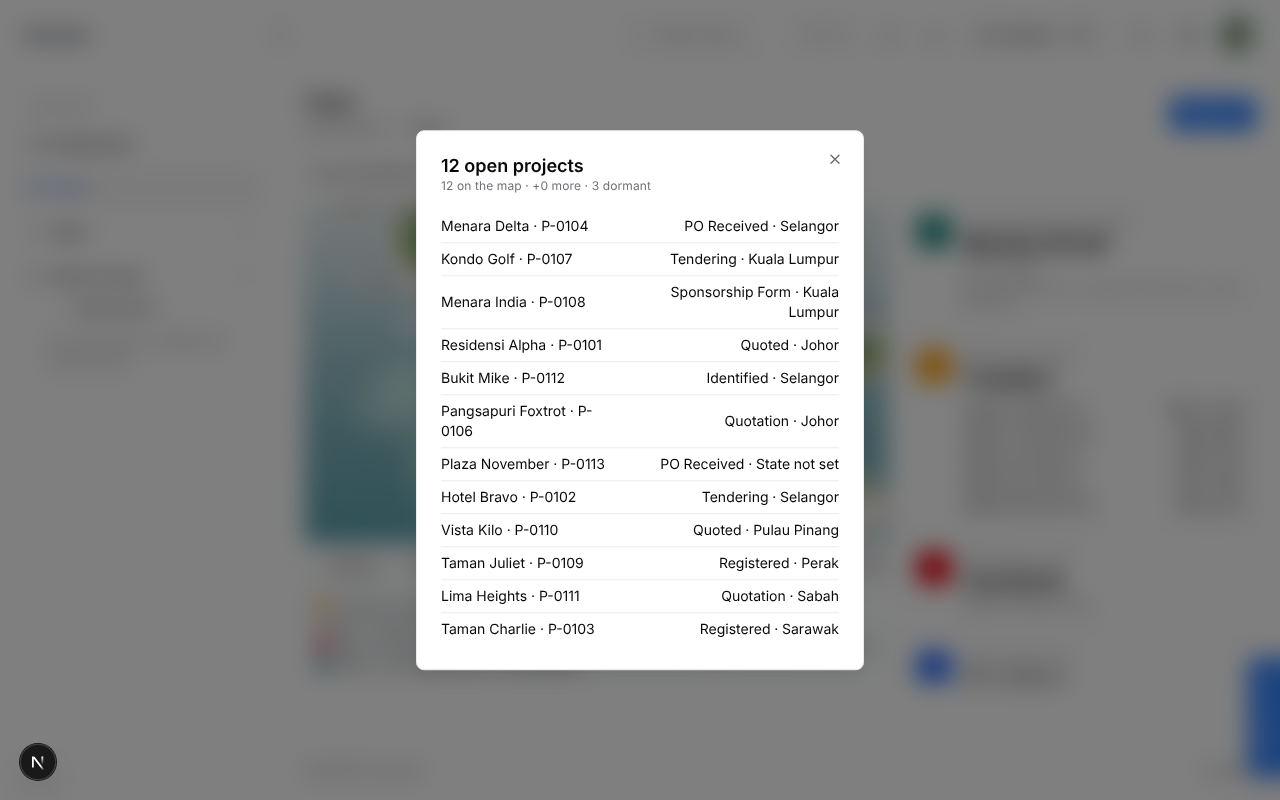
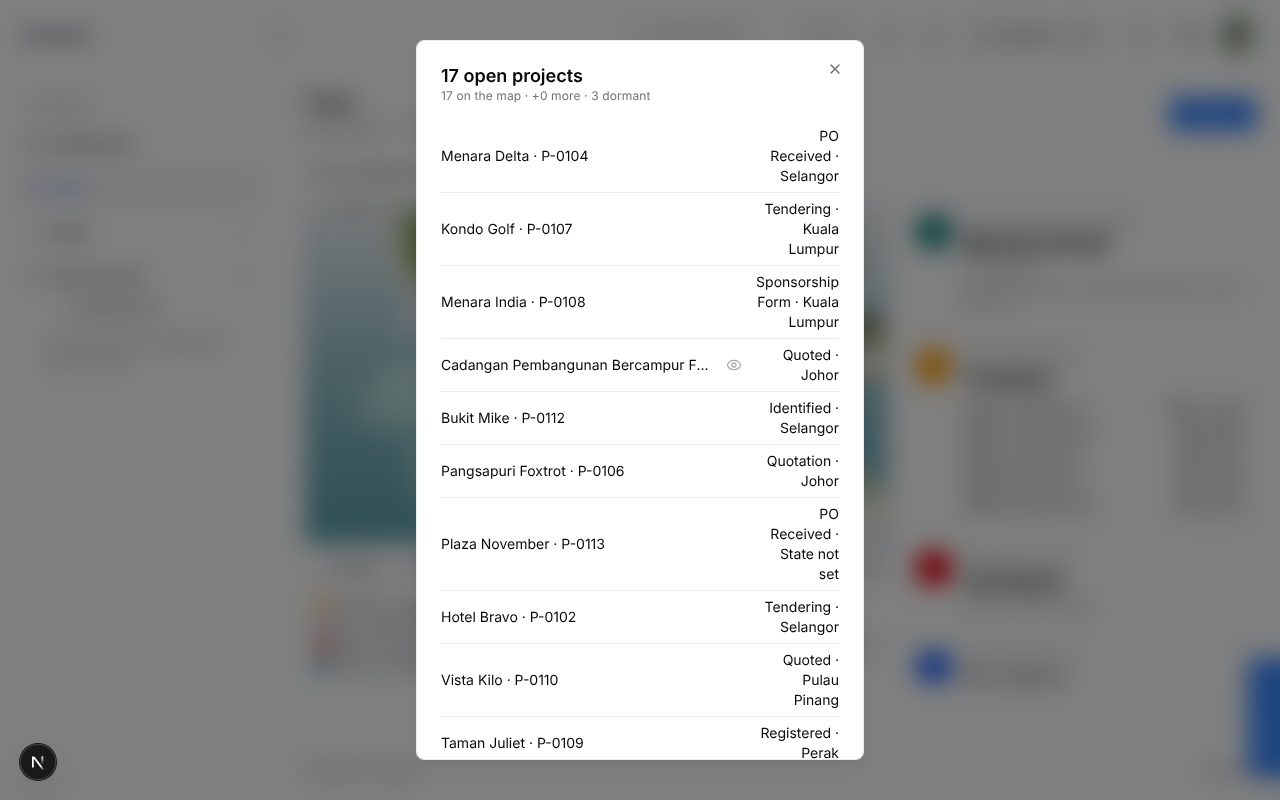
TOWN-PROJECT-CITY: crew pass 2 fixes (title clamp, islet pill, list keys, order lookup index, script)
- Long project titles clamp everywhere with the shared TruncatedTextCell:
  2 lines as a popup title, 1 line in a list row, the full text on hover
  or the eye (owner rule, 28 Oct).
- Close up, a state pill floats just off its island's south shore, on the
  water, so it never covers a site (the State not set islet lined its
  shore with sites); that islet is a little larger.
- The bought-today list keys rows by shop (anonymous rows all read Dealer).
- Index orders (customer_id, order_date DESC NULLS LAST, created_at DESC)
  for the Town's last-20-orders state lookup (the cold first build hit the
  5 s statement timeout); migration town_0003_orders_cust_date, model too.
- Hand-test Setup: the command crew runs to serve the latest full day as
  today (Redis only, DB read only).

Claude-Session: https://claude.ai/code/session_0123Dx7NWsLdG2vfFbvELCuk

Changed region(s): [[0.3125, 0.0312, 0.6875, 0.9688], [0.3438, 0.2812, 0.4688, 0.3438]]

diff --git a/sorento_crm_frontend/app/(protected)/town/components/TownLightbox.tsx b/sorento_crm_frontend/app/(protected)/town/components/TownLightbox.tsx
@@ -2,6 +2,7 @@
 
 import type { ReactNode } from 'react';
 import Link from 'next/link';
+import { TruncatedTextCell } from '@/components/common/TruncatedTextCell';
 import { Badge } from '@/components/ui/badge';
 import { Button } from '@/components/ui/button';
 import { Dialog, DialogBody, DialogContent, DialogDescription, DialogHeader, DialogTitle } from '@/components/ui/dialog';
@@ -41,7 +42,10 @@ function Rows({ rows }: { rows: ([string, ReactNode] | [string, ReactNode, strin
         <tbody>
           {rows.map(([label, value, id]) => (
             <tr key={id ?? label} className="border-b border-border last:border-0">
-              <td className="py-1.5 pe-2">{label}</td>
+              {/* a long name (a project title can run to hundreds of characters) clamps to one line, full text on hover or the eye */}
+              <td className="w-full max-w-0 py-1.5 pe-2">
+                <TruncatedTextCell text={label} dialogTitle="Full name" />
+              </td>
               <td className="py-1.5 text-end tabular-nums">{value}</td>
             </tr>
           ))}
@@ -161,7 +165,7 @@ function body(snapshot: TownSnapshot, target: TownTarget): { title: string; meta
         content: (
           <Rows
             rows={[
-              ...bought.map((shop): [string, ReactNode] => [shopLabel(shop), shopToday(shop)]),
+              ...bought.map((shop): [string, ReactNode, string] => [shopLabel(shop), shopToday(shop), shop.key]),
               ...(others ? ([[`+ ${others} more dealers`, '']] as [string, ReactNode][]) : []),
             ]}
           />
@@ -324,7 +328,9 @@ export function TownLightbox({
     <Dialog open={shown !== null} onOpenChange={(open) => !open && onClose()}>
       <DialogContent className={wide ? 'sm:max-w-2xl' : 'sm:max-w-md'}>
         <DialogHeader className="mb-2 space-y-0 pe-8 text-start">
-          <DialogTitle>{shown?.title}</DialogTitle>
+          <DialogTitle>
+            <TruncatedTextCell text={shown?.title} lines={2} dialogTitle="Full name" />
+          </DialogTitle>
           <DialogDescription className={shown?.meta ? 'text-xs' : 'sr-only'}>
             {shown?.meta || shown?.title}
           </DialogDescription>

diff --git a/sorento_crm_frontend/app/(protected)/town/components/TownProjectCity.test.tsx b/sorento_crm_frontend/app/(protected)/town/components/TownProjectCity.test.tsx
@@ -107,4 +107,27 @@ describe('TOWN-PROJECT-CITY: split board, sites, trading houses', () => {
     expect(error.mock.calls.flat().join(' ')).not.toMatch(/same key/);
     error.mockRestore();
   });
+
+  it('clamps a long project title: 2 lines as the popup title, 1 line in a list, the full text on hover (owner rule, 28 Oct)', () => {
+    const long = 'Cadangan Pembangunan '.repeat(27).trim();
+    const snap = { ...FULL, projects: { ...FULL.projects, sites: [{ ...SITE, name: long }] } };
+    const { unmount } = render(<TownLightbox snapshot={snap as never} target={{ kind: 'site', key: 'p1' }} onClose={() => undefined} />);
+    const title = screen.getByRole('dialog').querySelector('h2 [title]') as HTMLElement;
+    expect(title.className).toMatch(/line-clamp-2/);
+    expect(title.getAttribute('title')).toBe(`${long} · P-0101`);
+    unmount();
+    render(<TownLightbox snapshot={snap as never} target={{ kind: 'projects' }} onClose={() => undefined} />);
+    const row = screen.getByRole('dialog').querySelector('td [title]') as HTMLElement;
+    expect(row.className).toMatch(/truncate/);
+    expect(row.getAttribute('title')).toBe(`${long} · P-0101`);
+  });
+
+  it('lists the dealers bought today without duplicate React keys when names are hidden', () => {
+    const error = vi.spyOn(console, 'error').mockImplementation(() => undefined);
+    const shops = Array.from({ length: 4 }, (_, i) => ({ key: `opaque-shop-${i}`, kind: 'shop', account_label: null, today_docs: 1 }));
+    const snap = { ...REDACTED, shops, today: { ...REDACTED.today, dealer_customer_count: 4 } };
+    render(<TownLightbox snapshot={snap as never} target={{ kind: 'bought' }} onClose={() => undefined} />);
+    expect(error.mock.calls.flat().join(' ')).not.toMatch(/same key/);
+    error.mockRestore();
+  });
 });

diff --git a/sorento_crm_frontend/app/(protected)/town/components/townWorld.ts b/sorento_crm_frontend/app/(protected)/town/components/townWorld.ts
@@ -1819,13 +1819,13 @@ export function mountWorld(o: WorldOptions): WorldHandle {
       const nSites = sitesBy[d.key]?.length ?? 0;
       const nTowers = towersBy[d.key]?.length ?? 0;
       const bits = [dealers.length ? `${plural(dealers.length, 'dealer')}${lit ? `, ${lit} lit` : ''}` : '', nSites ? plural(nSites, 'site') : '', nTowers ? plural(nTowers, 'trading house', 'trading houses') : ''].filter(Boolean);
-      // the pill stands on the state's near (south) shore, not over its street, so a tap on a site or a shop
-      // is never taken by the pill
+      // close up, the pill floats just off the state's near (south) shore, on the water, so it never covers a
+      // site or a shop (on a small islet the shore itself is lined with sites)
       const [sx, sz] = mapXZ(0, -1);
-      const [cx, cz] = d.key === 'selangor' ? polar(26.5, 330) : edgeToward(d.key, centreOf(d.key)[0] + sx * 99, centreOf(d.key)[1] + sz * 99, -1);
+      const [cx, cz] = d.key === 'selangor' ? polar(26.5, 330) : edgeToward(d.key, centreOf(d.key)[0] + sx * 99, centreOf(d.key)[1] + sz * 99, -5);
       addLabel(
         { text: d.name, dot: lit ? 'lit' : undefined, muted: bits.length ? ` ${bits.join(' · ')}` : undefined },
-        new THREE.Vector3(cx, d.key === 'selangor' ? 3 : 1.2, cz),
+        new THREE.Vector3(cx, d.key === 'selangor' ? 3 : 0, cz),
         false,
         () => (d.key === 'selangor' ? flyTo('selangor') : flyTo(d.key)),
         () => ({ kind: 'state', name: d.name, detail: bits.join(' · ') }),

diff --git a/sorento_crm_frontend/app/(protected)/town/lib/townMap.ts b/sorento_crm_frontend/app/(protected)/town/lib/townMap.ts
@@ -44,7 +44,7 @@ export const STATES: StateDef[] = [
   { key: 'ns', name: 'Negeri Sembilan', e: 36, n: -58, rx: 13, ry: 11, rot: 30, parent: 'putrajaya' },
   { key: 'melaka', name: 'Melaka', e: 18, n: -80, rx: 8, ry: 7, rot: 30, parent: 'ns' },
   { key: 'johor', name: 'Johor', e: 68, n: -88, rx: 26, ry: 17, rot: 10, parent: 'ns' },
-  { key: 'notset', name: 'State not set', e: -42, n: -58, rx: 8, ry: 7, rot: 0 },
+  { key: 'notset', name: 'State not set', e: -44, n: -60, rx: 12, ry: 9, rot: 0 },
   { key: 'sarawak', name: 'Sarawak', e: 205, n: -6, rx: 48, ry: 17, rot: 25 },
   { key: 'labuan', name: 'Labuan', e: 246, n: 56, rx: 4, ry: 4, rot: 0 },
   { key: 'sabah', name: 'Sabah', e: 282, n: 70, rx: 26, ry: 20, rot: 35 },

diff --git a/sorento_crm_backend/alembic/versions/town_0003_orders_cust_date.py b/sorento_crm_backend/alembic/versions/town_0003_orders_cust_date.py
@@ -1,0 +1,67 @@
+"""Index orders (customer_id, order_date DESC NULLS LAST, created_at DESC) (TOWN-PROJECT-CITY).
+
+documentation/plans/dashboard/PLAN-town-project-city-11nov.md. The Town places a dealer by the postcode of
+its last 20 delivery orders, newest first (`snapshot._states`, a LATERAL with LIMIT 20 per customer). With
+only `ix_orders_customer_id` Postgres reads and sorts each customer's whole order history; on a cold prod
+copy the first build hit the 5 s statement timeout there (crew pass, 12 Nov). This index serves the 20 rows
+directly. Same build shape as sodv_0001_ol_from_doc_idx: CONCURRENTLY, bounded lock wait, an INVALID
+leftover dropped and rebuilt.
+
+Revision ID: town_0003_orders_cust_date
+Revises: pc_0001_product_costing
+"""
+from __future__ import annotations
+
+import sqlalchemy as sa
+from alembic import op
+
+# Kept <=32 chars: alembic_version.version_num is varchar(32).
+revision = "town_0003_orders_cust_date"
+down_revision = "pc_0001_product_costing"
+branch_labels = None
+depends_on = None
+
+INDEX = "ix_orders_customer_order_date"
+COLUMNS = "customer_id, order_date DESC NULLS LAST, created_at DESC"
+INDEX_LOCK_TIMEOUT = "30s"
+
+
+def _index_valid(bind):
+    """pg_index.indisvalid for the index (True / False), or None when there is none."""
+    return bind.execute(
+        sa.text(
+            "SELECT i.indisvalid FROM pg_index i JOIN pg_class c ON c.oid = i.indexrelid "
+            "WHERE i.indrelid = 'orders'::regclass AND c.relname = :name"
+        ),
+        {"name": INDEX},
+    ).scalar()
+
+
+def _ensure_index(bind, *, concurrently: bool) -> None:
+    """Build the index unless a VALID one exists; drop an INVALID leftover of a failed CONCURRENTLY
+    build first, which IF NOT EXISTS would otherwise keep forever."""
+    if _index_valid(bind) is True:
+        return
+    c = "CONCURRENTLY" if concurrently else ""
+    if _index_valid(bind) is False:
+        bind.execute(sa.text(f"DROP INDEX {c} IF EXISTS {INDEX}"))
+    bind.execute(sa.text(f"CREATE INDEX {c} IF NOT EXISTS {INDEX} ON orders ({COLUMNS})"))
+    if _index_valid(bind) is not True:
+        raise RuntimeError(f"town_0003: index {INDEX} is INVALID after the build; drop it and rerun.")
+
+
+def upgrade():
+    # CREATE INDEX CONCURRENTLY cannot run inside a transaction.
+    with op.get_context().autocommit_block():
+        bind = op.get_bind()
+        previous = bind.execute(sa.text("SELECT current_setting('lock_timeout')")).scalar()
+        bind.execute(sa.text(f"SET lock_timeout = '{INDEX_LOCK_TIMEOUT}'"))
+        try:
+            _ensure_index(bind, concurrently=True)
+        finally:
+            bind.execute(sa.text("SELECT set_config('lock_timeout', :v, false)"), {"v": previous})
+
+
+def downgrade():
+    with op.get_context().autocommit_block():
+        op.get_bind().execute(sa.text(f"DROP INDEX CONCURRENTLY IF EXISTS {INDEX}"))

diff --git a/sorento_crm_backend/tests/town/test_town_project_city_state.py b/sorento_crm_backend/tests/town/test_town_project_city_state.py
@@ -219,3 +219,15 @@ def test_the_most_frequent_postcode_wins_not_the_most_frequent_state(db):
     c = cust(db)
     _orders(db, c, ["47301", "47301", "50460", "50450"])  # oldest first
     assert _state_of(db, c)[0] == "Selangor"
+
+
+def test_the_order_lookup_has_its_index():
+    """Crew pass (12 Nov): the first build on a cold prod copy hit the 5 s statement timeout in the state
+    lookup, which reads each customer's last 20 delivery orders newest first. The index serves exactly that
+    (customer, newest first), so a dealer's whole order history is never read and sorted."""
+    from app.models.order import Order
+
+    index = {ix.name: ix for ix in Order.__table__.indexes}["ix_orders_customer_order_date"]
+    cols = [str(e) for e in index.expressions]
+    assert cols[0].endswith("customer_id")
+    assert "order_date DESC NULLS LAST" in cols[1] and "created_at DESC" in cols[2]

diff --git a/sorento_crm_backend/app/models/order.py b/sorento_crm_backend/app/models/order.py
@@ -520,6 +520,9 @@ class Order(Base, CompanyScopedMixin):
     __table_args__ = (
         Index("uq_orders_company_order_number", "company_id", "order_number", unique=True),
         Index("ix_orders_customer_id", "customer_id"),
+        # TOWN-PROJECT-CITY: a customer's delivery orders newest first (the Town reads the last 20 per dealer
+        # for its state); migration town_0003_orders_cust_date
+        Index("ix_orders_customer_order_date", "customer_id", text("order_date DESC NULLS LAST"), text("created_at DESC")),
         Index("ix_orders_order_status_id", "order_status_id"),
         Index("ix_orders_order_date", "order_date"),
         Index("ix_orders_order_number", "order_number"),

diff --git a/laneboard/scripts/2342.md b/laneboard/scripts/2342.md
@@ -8,7 +8,36 @@ crew test copy
 - Sign in as an admin (the Town is admin-only).
 - Crew (not the owner) builds today's Town snapshot once on the test copy after 07:00 Malaysia time (the copy runs with the scheduler off; the tick refuses outside 07:00 to 22:05):
   `cd sorento_crm_backend && venv/bin/python -c "from app.services.town.snapshot import run_town_snapshot_tick; print(run_town_snapshot_tick())"`
-- Dev data note: the dev copy's invoices end on 04/11, so "today" shows RM 0, no lit shop and no lit tower, and the dev trading-house links have no linked customer, so no tower stands. The split, lit shops and towers were checked by crew on snapshots built by this PR's code from the 02-04/11 data; on today's copy check that the line reads Dealers RM 0 · Projects RM 0 · Other RM 0 and that the sites and their stages show.
+- Dev data note: the copy's invoices end before today, so today's Town reads RM 0 with nothing lit. So the owner sees real figures, crew then serves each company's latest full day as today (Redis only; the database is only read). Run it from `sorento_crm_backend` with the copy's env:
+  ```
+  venv/bin/python - <<'PY'
+  from datetime import datetime, time, timedelta, timezone
+  import sqlalchemy as sa
+  from app.main import app  # noqa: F401
+  from app.database import SessionLocal
+  from app.models.base import set_company_scope
+  from app.models.company import Company
+  from app.models.finance import BillingDocument
+  from app.services.queue_service import redis_conn
+  from app.services.town import snapshot as town
+  MYT = timezone(timedelta(hours=8))
+  today = datetime.now(MYT).date()
+  with SessionLocal() as db:
+      set_company_scope(db, None)
+      for (cid,) in db.query(Company.id).filter(Company.is_active.is_(True)).all():
+          cid = str(cid)
+          day = db.execute(sa.select(sa.func.max(BillingDocument.doc_date)).where(
+              BillingDocument.company_id == cid, BillingDocument.doc_date < today)).scalar()
+          if day is None:
+              print(cid, 'no invoices before today, skipped'); continue
+          full = town.build_snapshot(db, cid, day, now=datetime.combine(day, time(15), MYT))
+          full['day'] = today.isoformat()
+          town.store(redis_conn, cid, today, full)
+          print(cid, 'serves', day.isoformat(), 'as', today.isoformat())
+      db.rollback()
+  PY
+  ```
+  It prints one line per company, e.g. "<company id> serves 2026-11-11 as 2026-11-12". The next scheduled tick (when the scheduler runs) replaces it with the real today. The dev trading-house links have no linked customer, so no tower stands on the copy.
 - Optional, for a project site with dates: open any open project and set its Launch date and Expected delivery (from) in the sales profile, and its State; for a trading house: link a party in role Trading house that is tied to a customer which has a Project-type invoice today. Then rebuild the snapshot (command above).
 
 ## Steps
